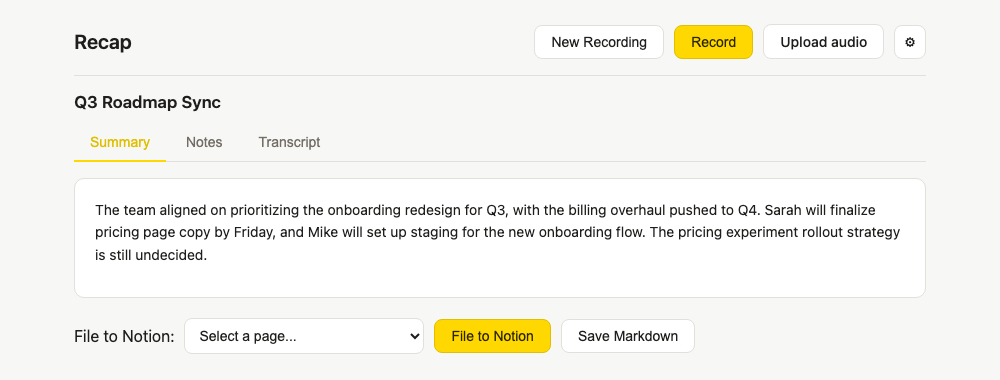
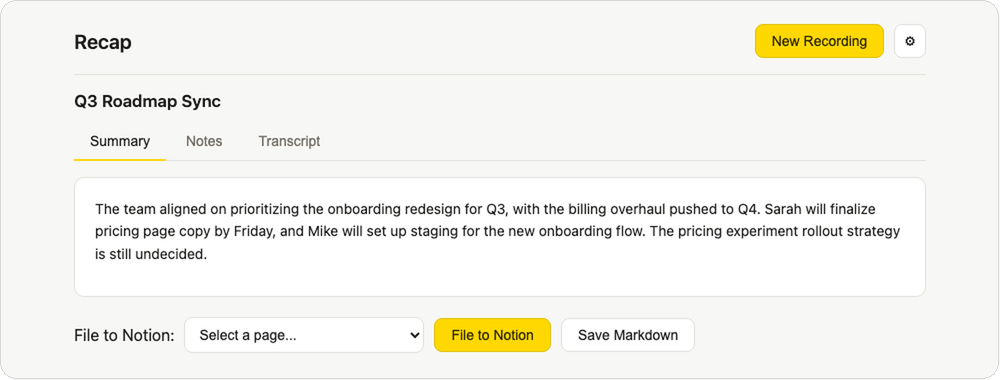
Fix low-contrast active tab text, refresh README screenshots
Active tab color was --accent-hover (a dark yellow), nearly illegible
against the panel background — switch it to the normal text color and
keep the yellow underline for the active indicator. Regenerated the
README screenshots to reflect this and the New-Recording-replaces-Record
button change, cropped tighter to content and given rounded corners.

diff --git a/frontend/style.css b/frontend/style.css
@@ -188,7 +188,7 @@ h1 {
 }
 
 .tab-btn.active {
-  color: var(--accent-hover);
+  color: var(--text);
   border-bottom-color: var(--accent);
 }
 
